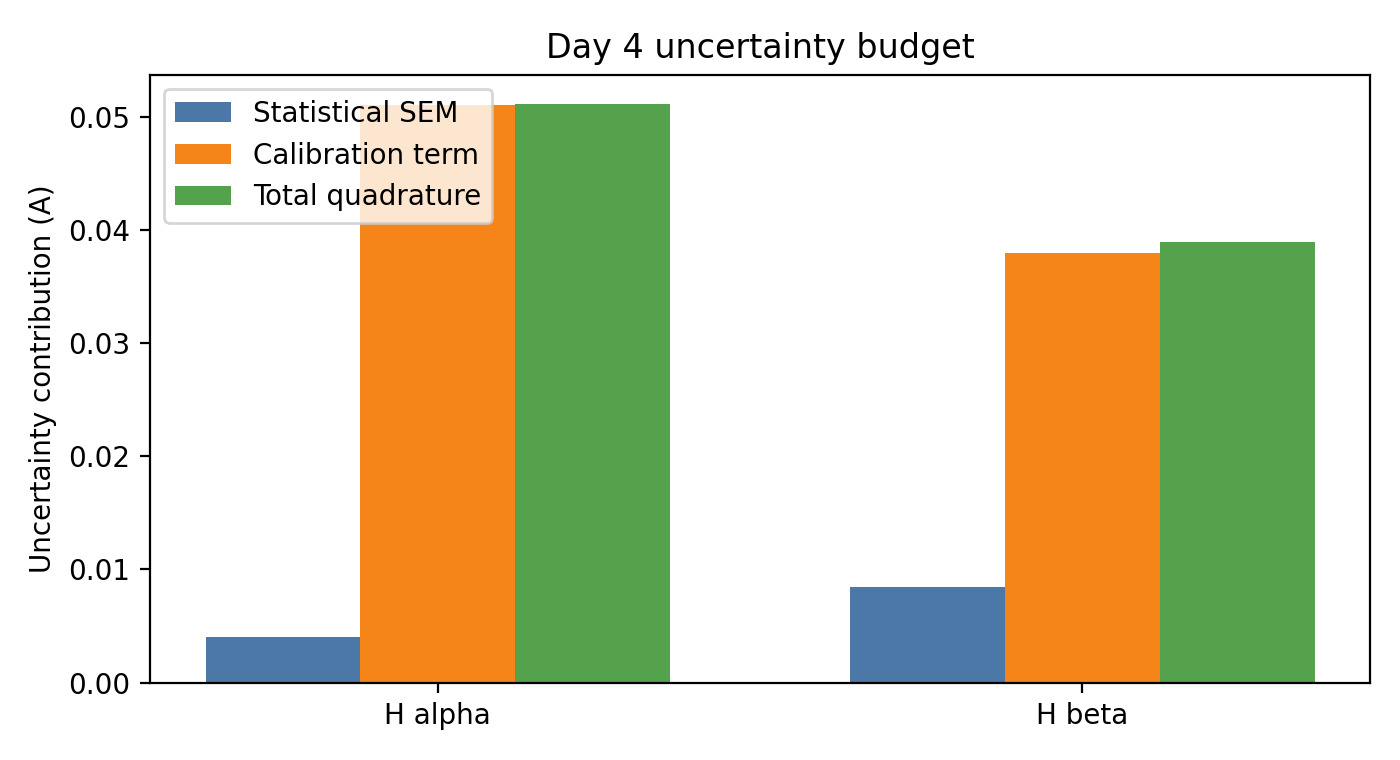
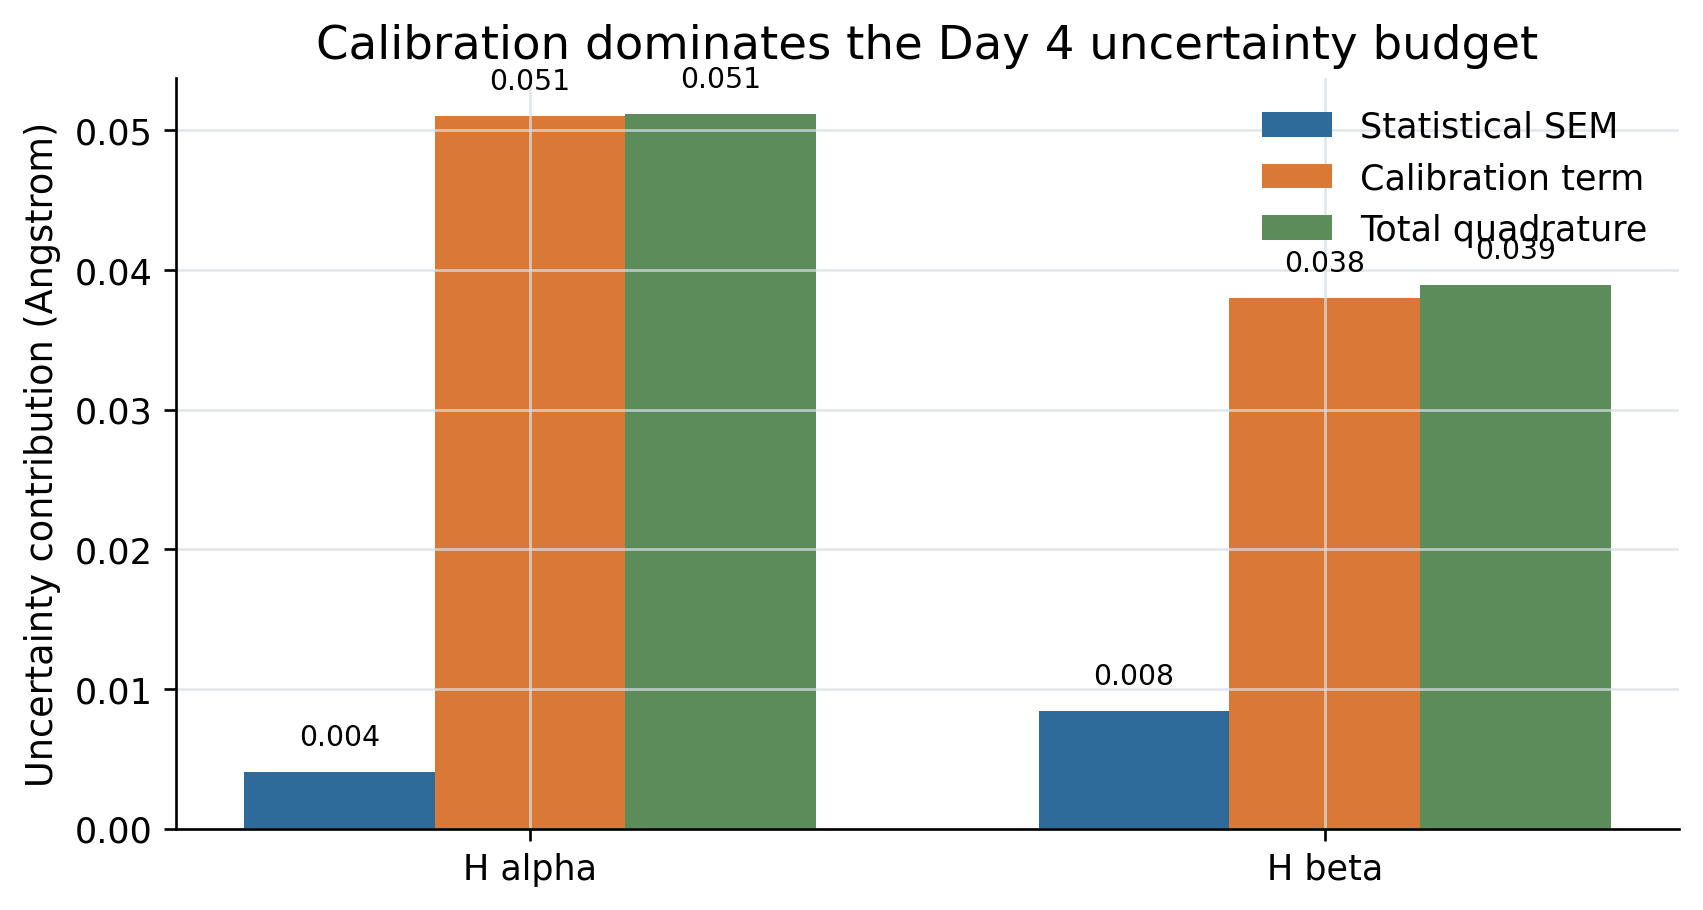
Polish README analysis figures

Changed region(s): [[0.0, 0.0303, 0.9829, 0.9684]]

diff --git a/analysis/recompute_tables_day4.py b/analysis/recompute_tables_day4.py
@@ -46,6 +46,38 @@ LINE_LABELS = {
 
 OUTDIR = Path(__file__).resolve().parents[1] / "results"
 OUTDIR.mkdir(parents=True, exist_ok=True)
+BLUE = "#2F6B9A"
+ORANGE = "#D97935"
+GREEN = "#5B8C5A"
+RED = "#B4554B"
+GRAY = "#4A5568"
+LIGHT = "#EEF2F6"
+
+
+def set_plot_style() -> None:
+    plt.rcParams.update(
+        {
+            "figure.dpi": 140,
+            "savefig.dpi": 240,
+            "font.family": "DejaVu Sans",
+            "font.size": 10.5,
+            "axes.titlesize": 14,
+            "axes.labelsize": 11,
+            "axes.spines.top": False,
+            "axes.spines.right": False,
+            "axes.grid": True,
+            "grid.color": "#D9DEE7",
+            "grid.linewidth": 0.8,
+            "grid.alpha": 0.75,
+            "legend.frameon": False,
+        }
+    )
+
+
+def save_figure(fig: plt.Figure, path: Path) -> None:
+    fig.tight_layout()
+    fig.savefig(path, bbox_inches="tight", facecolor="white")
+    plt.close(fig)
 
 
 def mean_sem(values: np.ndarray) -> tuple[float, float, float]:
@@ -61,6 +93,7 @@ def percent_diff(exp_value: float, theory_value: float) -> float:
 
 
 def plot_shift_summary(df_compare: pd.DataFrame) -> None:
+    set_plot_style()
     labels = df_compare["Line"].tolist()
     y = np.arange(len(labels))
     exp_values = df_compare["Delta_lambda_exp_A"].to_numpy(dtype=float)
@@ -68,41 +101,51 @@ def plot_shift_summary(df_compare: pd.DataFrame) -> None:
     theory_values = df_compare["Delta_lambda_th_A"].to_numpy(dtype=float)
     percent_offsets = df_compare["Percent_difference_%"].to_numpy(dtype=float)
 
-    plt.figure(figsize=(7.0, 3.8))
-    plt.errorbar(
+    fig, ax = plt.subplots(figsize=(7.4, 3.8))
+    ax.errorbar(
         exp_values,
         y,
         xerr=exp_sigma,
         fmt="o",
-        color="#1F77B4",
-        ecolor="#1F77B4",
-        capsize=4,
-        markersize=7,
+        color=BLUE,
+        ecolor="#7FA7C7",
+        capsize=5,
+        markersize=8,
         label="Experiment",
     )
-    plt.scatter(
+    ax.scatter(
         theory_values,
         y,
         marker="s",
         s=55,
-        color="#E45756",
+        color=ORANGE,
         label="Theory",
         zorder=3,
     )
     for idx, pct in enumerate(percent_offsets):
         x_text = max(exp_values[idx] + exp_sigma[idx], theory_values[idx]) + 0.01
-        plt.text(x_text, y[idx], f"{pct:+.2f}%", va="center", fontsize=9, color="#444444")
+        ax.text(x_text, y[idx], f"{pct:+.2f}%", va="center", fontsize=9.5, color=GRAY)
+        y_offset = 0.18 if idx == 0 else -0.22
+        ax.text(
+            exp_values[idx],
+            y[idx] + y_offset,
+            f"{exp_values[idx]:.3f} +/- {exp_sigma[idx]:.3f}",
+            ha="center",
+            fontsize=9,
+            color=BLUE,
+        )
 
-    plt.yticks(y, labels)
-    plt.xlabel("Isotope shift Delta lambda (A)")
-    plt.title("Day 4 hydrogen-deuterium isotope shifts")
-    plt.legend(loc="best")
-    plt.tight_layout()
-    plt.savefig(OUTDIR / "day4_shift_summary.png", dpi=200)
-    plt.close()
+    ax.set_yticks(y, labels)
+    ax.set_xlabel("Isotope shift Delta lambda (Angstrom)")
+    ax.set_title("Day 4 H-D isotope shifts vs reduced-mass theory")
+    ax.set_xlim(1.18, 1.88)
+    ax.set_ylim(-0.55, 1.55)
+    ax.legend(loc="center right")
+    save_figure(fig, OUTDIR / "day4_shift_summary.png")
 
 
 def plot_uncertainty_breakdown(df_budget: pd.DataFrame) -> None:
+    set_plot_style()
     labels = df_budget["Line"].tolist()
     x = np.arange(len(labels))
     width = 0.24
@@ -111,17 +154,19 @@ def plot_uncertainty_breakdown(df_budget: pd.DataFrame) -> None:
     cal = df_budget["Calibration_A"].to_numpy(dtype=float)
     total = df_budget["Total_quadrature_A"].to_numpy(dtype=float)
 
-    plt.figure(figsize=(7.0, 3.8))
-    plt.bar(x - width, stat, width=width, color="#4C78A8", label="Statistical SEM")
-    plt.bar(x, cal, width=width, color="#F58518", label="Calibration term")
-    plt.bar(x + width, total, width=width, color="#54A24B", label="Total quadrature")
-    plt.xticks(x, labels)
-    plt.ylabel("Uncertainty contribution (A)")
-    plt.title("Day 4 uncertainty budget")
-    plt.legend(loc="upper left")
-    plt.tight_layout()
-    plt.savefig(OUTDIR / "day4_uncertainty_breakdown.png", dpi=200)
-    plt.close()
+    fig, ax = plt.subplots(figsize=(7.2, 3.9))
+    bars_stat = ax.bar(x - width, stat, width=width, color=BLUE, label="Statistical SEM")
+    bars_cal = ax.bar(x, cal, width=width, color=ORANGE, label="Calibration term")
+    bars_total = ax.bar(x + width, total, width=width, color=GREEN, label="Total quadrature")
+    ax.set_xticks(x, labels)
+    ax.set_ylabel("Uncertainty contribution (Angstrom)")
+    ax.set_title("Calibration dominates the Day 4 uncertainty budget")
+    ax.legend(loc="upper right")
+    for bars in (bars_stat, bars_cal, bars_total):
+        for bar in bars:
+            value = bar.get_height()
+            ax.text(bar.get_x() + bar.get_width() / 2, value + 0.0015, f"{value:.3f}", ha="center", va="bottom", fontsize=8.5)
+    save_figure(fig, OUTDIR / "day4_uncertainty_breakdown.png")
 
 
 def main() -> None:

diff --git a/README.md b/README.md
@@ -38,11 +38,11 @@ The final results come from the Day 4 new-lamp dataset, where four repeated scan
 
 **Experimental shifts compared with theory**
 
-![Day 4 shift summary](results/day4_shift_summary.png)
+<img src="results/day4_shift_summary.png" alt="Day 4 isotope shift summary" width="760">
 
 **Statistical vs calibration uncertainty**
 
-![Day 4 uncertainty breakdown](results/day4_uncertainty_breakdown.png)
+<img src="results/day4_uncertainty_breakdown.png" alt="Day 4 uncertainty breakdown" width="760">
 
 ## Python analysis workflow
 
